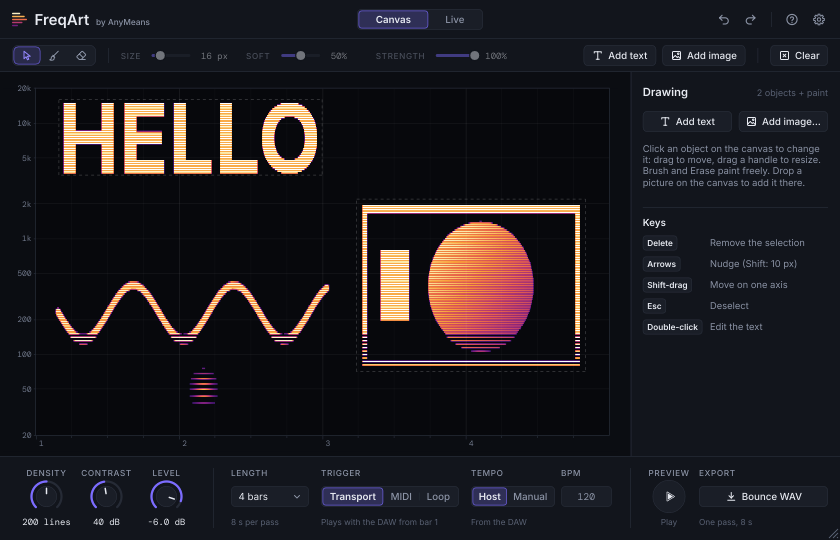
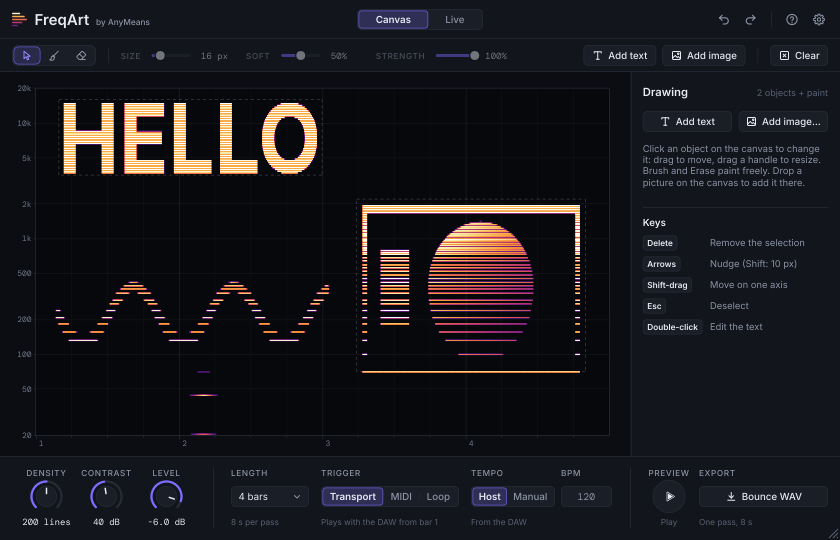
Keep the lows steady: lines at least 25 Hz apart, jittered when crowded
Lines 5 Hz apart sat inside one analyser bin and beat in regular pulses
(visible as blobs along the bottom of the live view). At 25 Hz the beats
average out within the analysis window, and a small fixed offset per
crowded line stops them pulsing in step.

Claude-Session: https://claude.ai/code/session_019o7CvHnop97oWByPaJgwMf

diff --git a/tests/PlanTests.cpp b/tests/PlanTests.cpp
@@ -22,6 +22,9 @@ PlanSettings settingsFor (ScaleType type, int density, double minHz = 20.0, doub
     settings.scale.minHz = minHz;
     settings.scale.maxHz = maxHz;
     settings.density = density;
+    // The layout tests were written for a 5 Hz minimum spacing, which keeps every line of the
+    // sparser layouts; the product default (wider, see planDefaultSpacing) is tested separately.
+    settings.minLineSpacingHz = 5.0f;
     return settings;
 }
 
@@ -133,12 +136,14 @@ FREQART_TEST (planLineLayout)
 
             for (size_t l = 0; l < expected.size() && l < plan->frequencies.size(); ++l)
             {
-                CHECK_NEAR (plan->frequencies[l], expected[l], expected[l] * 1.0e-6);
+                // Crowded lines are offset by up to a quarter of the minimum spacing.
+                CHECK_NEAR (plan->frequencies[l], expected[l],
+                            std::max (expected[l] * 1.0e-6, 0.25 * settings.minLineSpacingHz + 1.0e-3));
                 CHECK_NEAR (plan->lineNorm[l], settings.scale.toNorm (plan->frequencies[l]), 1.0e-5);
             }
 
             for (size_t l = 1; l < plan->frequencies.size(); ++l)
-                CHECK (plan->frequencies[l] - plan->frequencies[l - 1] >= settings.minLineSpacingHz - 1.0e-3f);
+                CHECK (plan->frequencies[l] - plan->frequencies[l - 1] >= 0.5f * settings.minLineSpacingHz - 1.0e-3f);
 
             CHECK (plan->frequencies.front() >= 10.0f);
             CHECK (plan->frequencies.back() <= settings.maxFrequencyHz);
@@ -174,7 +179,7 @@ FREQART_TEST (planSpacingAndLimits)
     const auto spaced = buildPlan (empty, wide);
 
     for (size_t l = 1; l < spaced->frequencies.size(); ++l)
-        CHECK (spaced->frequencies[l] - spaced->frequencies[l - 1] >= 50.0f - 1.0e-3f);
+        CHECK (spaced->frequencies[l] - spaced->frequencies[l - 1] >= 25.0f - 1.0e-3f);
 
     // Lines above the maximum frequency are dropped.
     auto capped = settingsFor (ScaleType::linear, 256, 20.0, 24000.0);
@@ -418,4 +423,22 @@ FREQART_TEST (planTiming)
     const auto ms = millisecondsSince (start) / runs;
     std::printf ("    buildPlan density 1024: %.2f ms (budget 15 ms)\n", ms);
     CHECK_LESS (ms, 4 * 15.0);
+}
+
+FREQART_TEST (planDefaultSpacing)
+{
+    // Lines closer than an analyser can separate beat in visible pulses; the default spacing
+    // keeps the lows steady (25 Hz beats average out inside a typical analysis window).
+    PlanSettings settings;
+    CHECK_NEAR (settings.minLineSpacingHz, 25.0f, 1.0e-6);
+
+    settings.density = 1024;
+    const Canvas empty;
+    const auto plan = buildPlan (empty, settings);
+
+    for (int l = 1; l < plan->numLines; ++l)
+        CHECK (plan->frequencies[static_cast<size_t> (l)] - plan->frequencies[static_cast<size_t> (l - 1)] >= 12.5f - 1.0e-3f);
+
+    // The highs keep their full density.
+    CHECK_GREATER (plan->numLines, 300);
 }

diff --git a/src/core/ArtPlan.h b/src/core/ArtPlan.h
@@ -29,7 +29,7 @@ struct PlanSettings
     int density = 256;              // lines across the full canvas height, 16..1024
     float contrastDb = 40.0f;       // dB between a value of 1 and a value just above 0
     float slopeDbPerOctave = 0.0f;  // tilt of the user's analyser, compensated (pivot 1 kHz)
-    float minLineSpacingHz = 5.0f;  // closer lines beat audibly and visibly: they are merged
+    float minLineSpacingHz = 25.0f; // closer lines beat audibly and visibly: they are merged
     float maxFrequencyHz = 20000.0f;// lines above this are dropped (kept below Nyquist by the engine too)
 };
 
@@ -68,7 +68,10 @@ struct ArtPlan
     Lines: density lines are spaced evenly in canvas height, line i (0 = bottom) at
     norm (i + 0.5) / density, frequency scale.toHz (norm). Going up from the bottom, a line closer
     than minLineSpacingHz to the last kept line is merged into it (its canvas span joins the kept
-    line's span); lines below 10 Hz or above maxFrequencyHz are dropped.
+    line's span); lines below 10 Hz or above maxFrequencyHz are dropped. Lines closer than twice
+    the minimum spacing to the line below are then moved by a fixed pseudo-random offset of up
+    to a quarter of the minimum spacing either way (so crowded lines do not all beat in step),
+    and their lineNorm follows.
 
     Values: a line's value at a column is the MAXIMUM of the canvas over the rows its span covers
     (so thin strokes never fall between lines), where a line's span runs halfway to its kept

diff --git a/src/core/ArtPlan.cpp b/src/core/ArtPlan.cpp
@@ -124,6 +124,26 @@ std::unique_ptr<ArtPlan> buildPlan (const Canvas& canvas, const PlanSettings& se
         layout.push_back ({ hz, norm, cell, cell });
     }
 
+    // Where lines crowd together (the merged lows on a log scale), they would sit exactly
+    // minSpacing apart, so every pair beats at the same rate and in step: the band pulses in
+    // regular blobs on an analyser. A small fixed offset per line (a quarter of the spacing at
+    // most, either way) breaks that common period, leaving an even, noise-like texture.
+    for (size_t l = 1; l < layout.size(); ++l)
+    {
+        const auto gap = layout[l].hz - layout[l - 1].hz;
+
+        if (minSpacing > 0.0 && gap < 2.0 * minSpacing)
+        {
+            auto bits = static_cast<uint32_t> (l) * 0x9E3779B9u;
+            bits ^= bits >> 16;
+            bits *= 0x85EBCA6Bu;
+            bits ^= bits >> 13;
+            const auto unit = static_cast<double> (bits & 0xFFFFu) / 65535.0;  // 0..1
+            layout[l].hz += (unit - 0.5) * 0.5 * minSpacing;
+            layout[l].norm = scale.toNorm (layout[l].hz);
+        }
+    }
+
     const auto numLines = static_cast<int> (layout.size());
     const auto numColumns = Canvas::width;
     const auto lines = static_cast<size_t> (numLines);

diff --git a/README.md b/README.md
@@ -32,7 +32,7 @@ The **?** button shows these steps inside the plug-in.
 ## Tips
 
 - **The highs show the most detail.** An analyser's frequency bins are evenly spaced in hertz, so on a log scale the top octaves get many bins each and stay sharp. Text and fine pictures read best in the **High** band.
-- **The lowest octaves are coarse in every analyser.** The bottom octaves get only a few bins each, so shapes there come out blurred whatever made them (FreqArt also merges lines closer than 5 Hz, which would beat against each other). Keep low-band art big and simple.
+- **The lowest octaves are coarse in every analyser.** The bottom octaves get only a few bins each, so shapes there come out blurred whatever made them (FreqArt also keeps its lines at least 25 Hz apart, because closer lines beat against each other and pulse on the analyser). Keep low-band art big and simple.
 - **Keep Level modest if you mix FreqArt under music.** A spectrogram shows quiet sounds clearly, and a drawing full of highs is easy to hear. Turn Level down until it sits where you want it in the mix, then check that the drawing still shows.
 - **Fit the length to the screen.** If your spectrogram shows, say, 8 seconds across its width, a drawing that lasts about 8 seconds fits on screen in one piece.
 - **Big solid shapes are loud.** Outline text, or an image in Outline mode, draws the same shape with much less sound.
